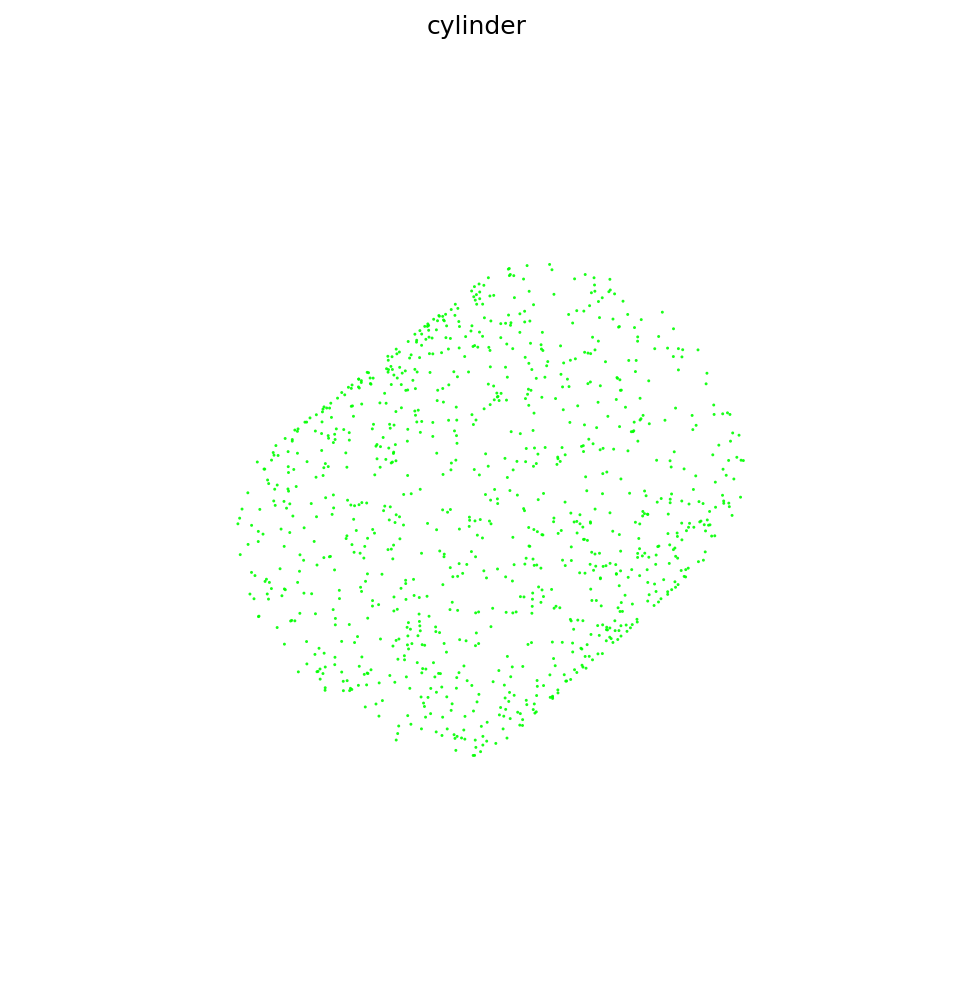
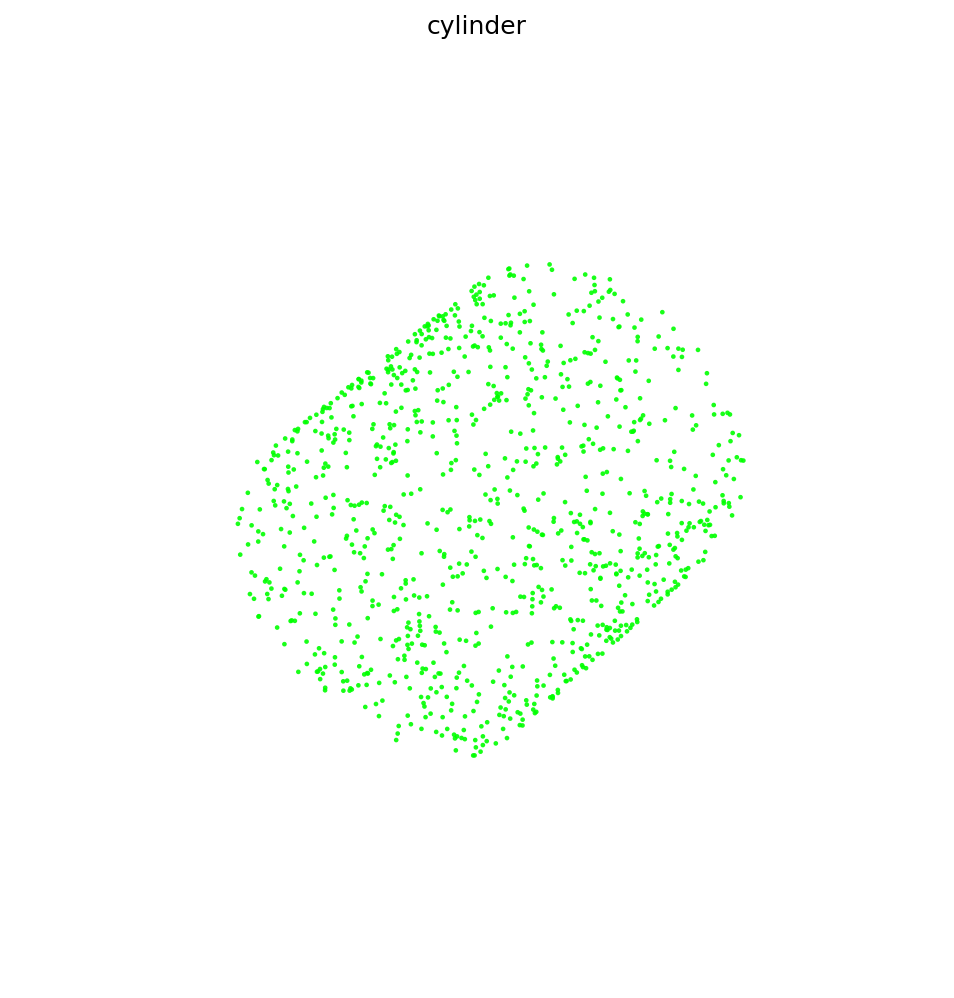
enhance visibility

diff --git a/learning/visualize.py b/learning/visualize.py
@@ -30,7 +30,8 @@ from learning.plot_set import (
 from simulation.generation import SceneGenerator, ShapeGenerator
 
 # Shared 3D PNG export style (shape + scene)
-PLOT_POINT_SIZE = 2.0
+PLOT_POINT_SIZE_SHAPE = 5.0
+PLOT_POINT_SIZE_SCENE = 2.0
 PLOT_ALPHA = 0.9
 PLOT_DPI = 150
 
@@ -63,11 +64,13 @@ def _set_scene_view(ax, points: np.ndarray, pad: float = 0.06) -> None:
         ax.set_box_aspect(tuple(spans))
 
 
-def _scatter_points(ax, points: np.ndarray, color: tuple[float, float, float]) -> None:
+def _scatter_points(
+    ax, points: np.ndarray, color: tuple[float, float, float], *, size: float,
+) -> None:
     color_arr = np.broadcast_to(color, (len(points), 3))
     ax.scatter(
         points[:, 0], points[:, 1], points[:, 2],
-        c=color_arr, s=PLOT_POINT_SIZE, linewidths=0, alpha=PLOT_ALPHA,
+        c=color_arr, s=size, linewidths=0, alpha=PLOT_ALPHA,
     )
 
 
@@ -79,7 +82,7 @@ def save_scene_plot(objects, path: str | Path, title: str | None = None, dpi: in
     ax = fig.add_subplot(111, projection="3d")
     all_points = []
     for obj in objects:
-        _scatter_points(ax, obj.points, CLASS_COLORS.get(obj.label, DEFAULT_COLOR))
+        _scatter_points(ax, obj.points, CLASS_COLORS.get(obj.label, DEFAULT_COLOR), size=PLOT_POINT_SIZE_SCENE)
         all_points.append(obj.points)
     if all_points:
         _set_scene_view(ax, np.concatenate(all_points, axis=0))
@@ -97,7 +100,7 @@ def save_shape_plot(points: np.ndarray, label: int, path: str | Path, title: str
     path.parent.mkdir(parents=True, exist_ok=True)
     fig = plt.figure(figsize=(8, 8))
     ax = fig.add_subplot(111, projection="3d")
-    _scatter_points(ax, points, CLASS_COLORS.get(label, DEFAULT_COLOR))
+    _scatter_points(ax, points, CLASS_COLORS.get(label, DEFAULT_COLOR), size=PLOT_POINT_SIZE_SHAPE)
     _set_equal_aspect(ax, points)
     if hasattr(ax, "set_box_aspect"):
         ax.set_box_aspect((1, 1, 1))